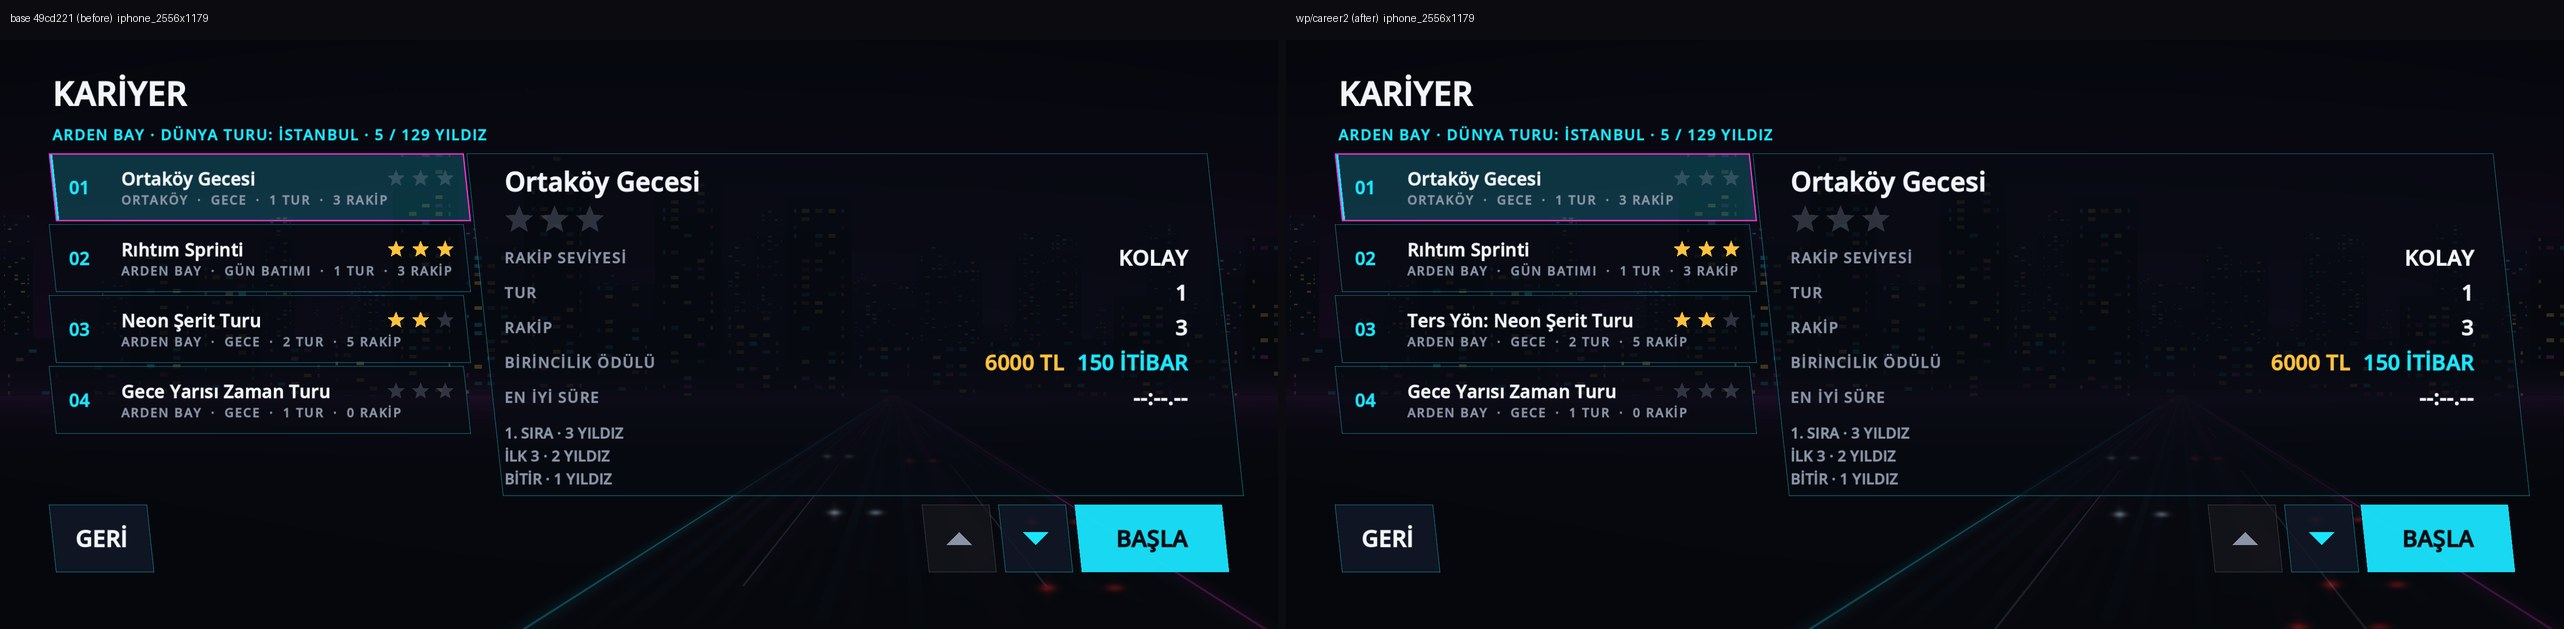
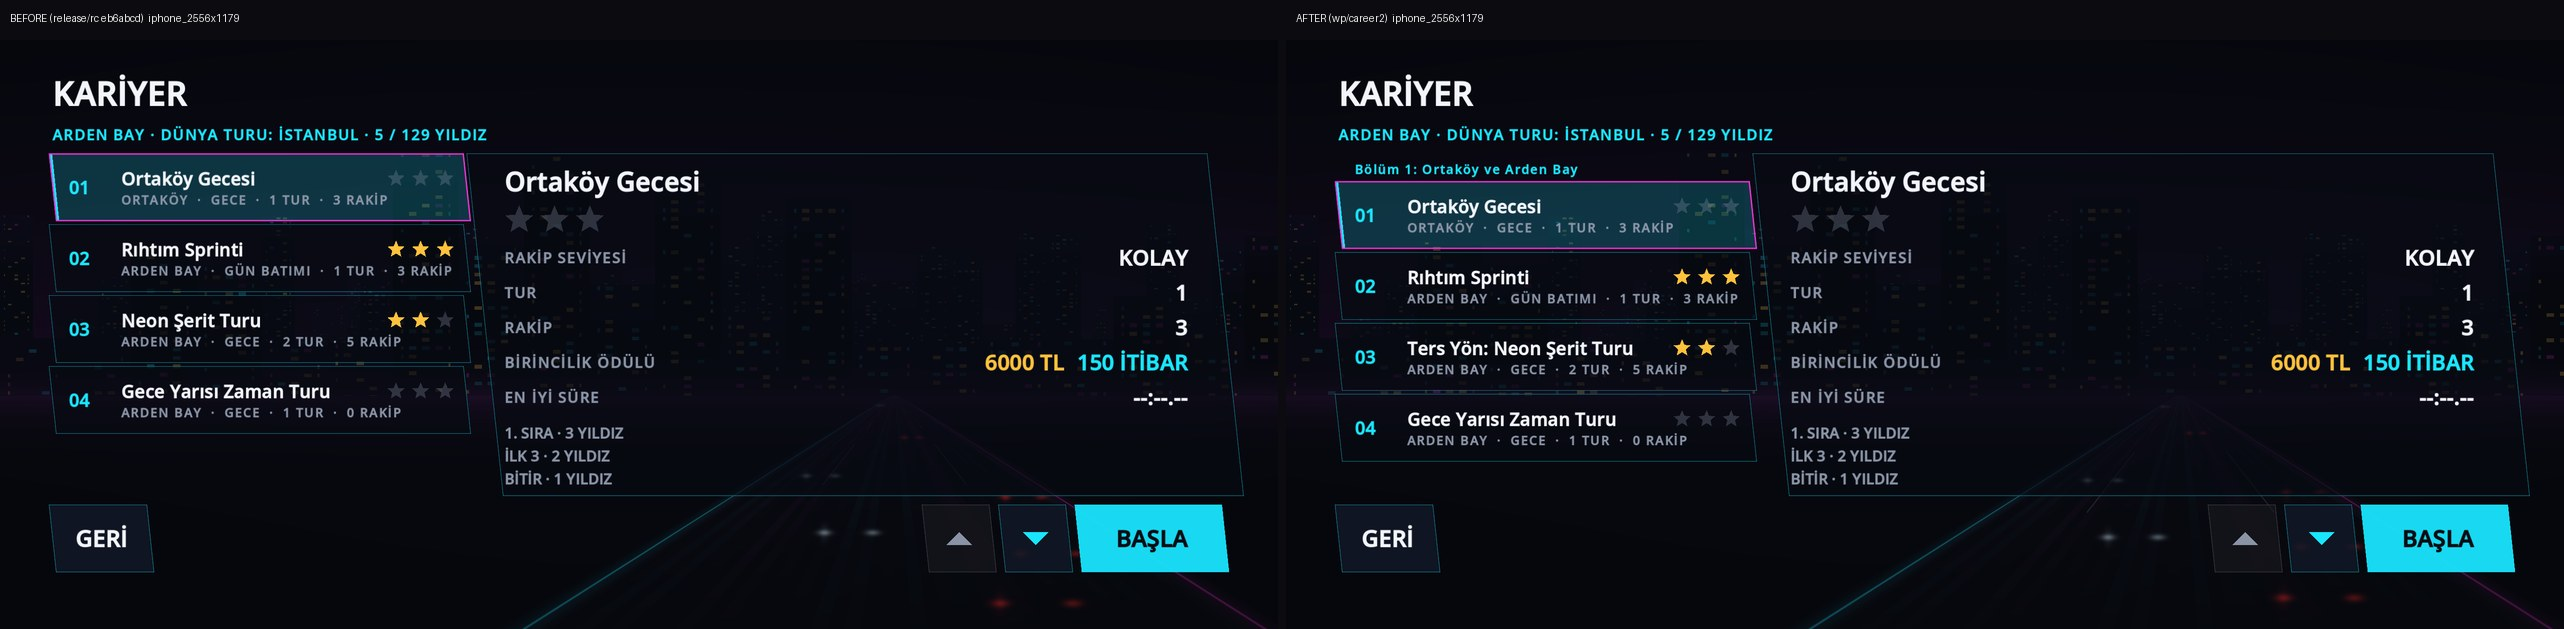
Career2 review: chapter headers in event select, doc and test fixes
- event_select.gd: a header row above each chapter start (chapters 1-4 and the modes/pursuit tail), text from chapter.N.name; spacers follow the phone window
- EventSelect.is_chapter_start; i18n chapter.0.name appended (TR/EN)
- test_career2: header positions test; dead prev_chapter line removed
- ROUTES doc: deliberate pursuit_bogaz_gauntlet hour change, economy ratio (1.56 / 3.02, before = after), open Bogaz first lap item
- before/after event select sheets (desktop, iPhone) in evidence/screens/before_after_career2

diff --git a/docs/design/ROUTES_2026-11-28.md b/docs/design/ROUTES_2026-11-28.md
@@ -89,3 +89,22 @@ Not done:
 Economy (tools/economy_sim.py): unchanged before and after (rewards and rivals unchanged). Cost / 3-star career
 cash 1.56, cost / 2-star career 3.02 (the note in ECONOMY_2026-11-28.md quotes 1.79 for the 3-star ratio; the
 sim prints 1.56 on this tree).
+
+## Career2 review fixes (2026-11-28, wp/career2 follow-up)
+
+- Chapter headers now show in the event select list: `EventSelect.is_chapter_start` puts a header above row 1
+  (chapter 1), row 6 (2), row 14 (3), row 22 (4) and row 31 (the modes and pursuit tail, chapter 0, key
+  `chapter.0.name` "Modes and Pursuit"). Captures: evidence/screens/before_after_career2 (desktop, iPhone).
+- Exception, on purpose: `pursuit_bogaz_gauntlet` moved night -> sunset to break the duplicate with `bogaz_escape`
+  (Bogaz, night, pursuit). `test_escape_event` pins bogaz_escape at night, so the other one moved. It is not a
+  reverse variant. Player-visible: the gauntlet now runs at sunset.
+- Economy (tools/economy_sim.py): release eb6abcd and this tree print the same numbers: 43 events, 3-star career cash
+  528000, cost / 3-star career 1.56 (band 1.5 to 2.0), cost / 2-star career 3.02. Before = after. The table in
+  ECONOMY_2026-11-28.md (1.79, 35 events) is older and not owned here, so it was not edited.
+- Chapter labels: the ladder order is kept for save compatibility, so chapter 2 is the finals and Bosphorus, chapter 3
+  Maslak and the Bosphorus tour, chapter 4 the Istanbul finals. The brief's order (Maslak as 2, Neon Wharf as 3) would
+  reorder unlocks.
+- Open, not changed: Bogaz short first lap. Hypothesis: the authored grid sits at progress 194 to 250 m of a 2205 m lap,
+  which race_manager counts as ahead of the line, so the first lap is short. Unverified. Needs a start-grid capture of
+  the authored grid and a lead decision. Track it in BLOCKERS.md.
+- Not captured: a reverse start grid for City 01 and Maslak (checked numerically only), so the grid evidence covers Bogaz.
